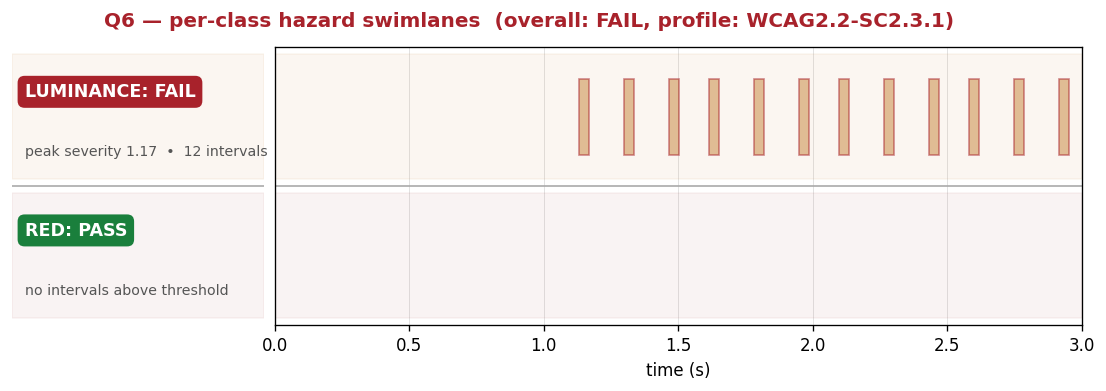
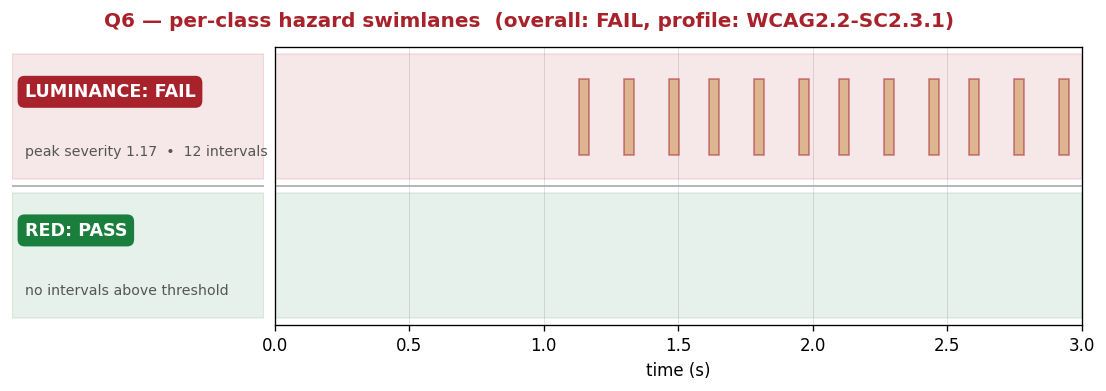
Swimlane lane backgrounds now use verdict color (green PASS, pink FAIL)
Previously each lane was lightly tinted in its class color (amber for
luminance, brick for red, etc.) at alpha 0.07. Class-color tinting
worked but didn't help the viewer's eye distinguish PASS lanes from
FAIL lanes at a glance -- you had to read the chip to know.

Now lanes are tinted by verdict, not by class:
  - PASS lanes get a light green wash (PASS_COLOR @ alpha 0.10)
  - FAIL lanes get a light pink wash (FAIL_COLOR @ alpha 0.10)

The class identity still reads via:
  - bar color (luminance bars stay amber, red bars stay brick, etc.)
  - class label in the lane header

The benefit: a failing lane is now obviously wrong at any zoom, pan,
or scale -- even a single-frame blip in an otherwise empty lane is
unmistakable because the entire row background is pink while every
other row is green.

Verified on both test fixtures:
  - 60fps_fail_31hz: luminance lane (pink) vs red lane (green) reads
    as clearly distinct at any zoom level
  - f002f038: even the 1-frame burst at 1.4s sits inside a fully pink
    row, so a viewer cannot scan past and miss the failure

diff --git a/report/heatmap.py b/report/heatmap.py
@@ -143,11 +143,15 @@ def render_heatmap(result: Any, out_path: Path) -> Path:
         intervals = info.get("fail_intervals", []) or []
         peak_sev = float(info.get("score", 0.0))
         class_failed = cls in failed_dims
-        lane_color = CLASS_COLORS.get(cls, "#888")
         chip_color = FAIL_COLOR if class_failed else PASS_COLOR
         chip_text = f"{cls.upper()}: {'FAIL' if class_failed else 'PASS'}"
+        # Lane background colour mirrors the verdict: light green for
+        # PASS, light pink for FAIL. The contrast at the lane divider
+        # makes a failing lane visually distinct at any zoom/pan level
+        # without depending on the viewer reading the chip first.
+        lane_bg_color = FAIL_COLOR if class_failed else PASS_COLOR
 
-        ax_head.axhspan(y - 0.45, y + 0.45, color=lane_color, alpha=0.07)
+        ax_head.axhspan(y - 0.45, y + 0.45, color=lane_bg_color, alpha=0.10)
         ax_head.text(0.05, y + 0.18, chip_text,
                       va="center", ha="left",
                       fontsize=10.5, fontweight="bold", color="white",
@@ -174,8 +178,10 @@ def render_heatmap(result: Any, out_path: Path) -> Path:
         y = n_lanes - 1 - ai
         info = per_axis.get(cls, {})
         intervals = info.get("fail_intervals", []) or []
+        class_failed = cls in failed_dims
         lane_color = CLASS_COLORS.get(cls, "#888")
-        ax_body.axhspan(y - 0.45, y + 0.45, color=lane_color, alpha=0.07)
+        lane_bg_color = FAIL_COLOR if class_failed else PASS_COLOR
+        ax_body.axhspan(y - 0.45, y + 0.45, color=lane_bg_color, alpha=0.10)
         sev_series = severity[cls]
         for start, end in intervals:
             width = max(end - start, min_bar_width)